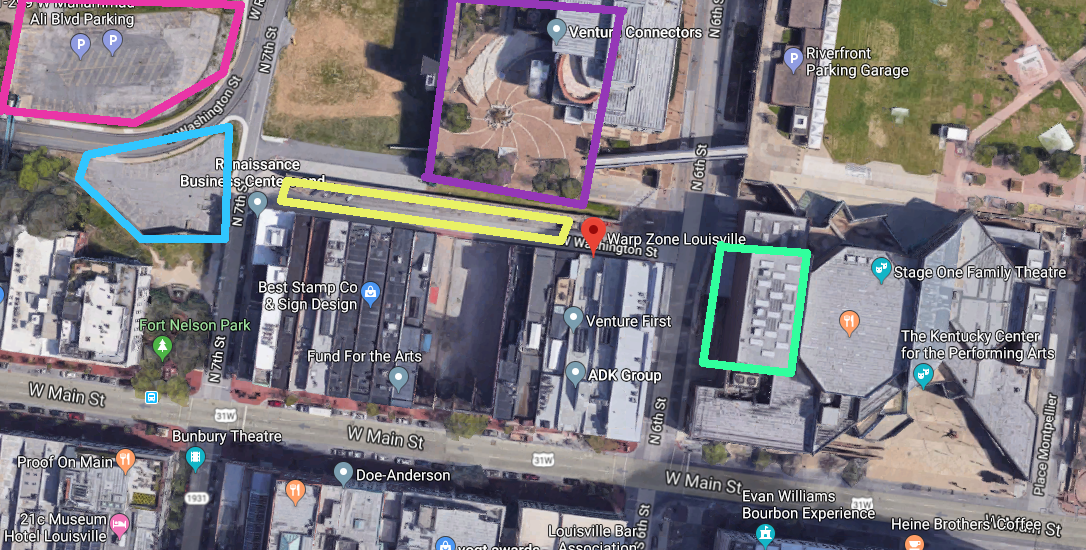
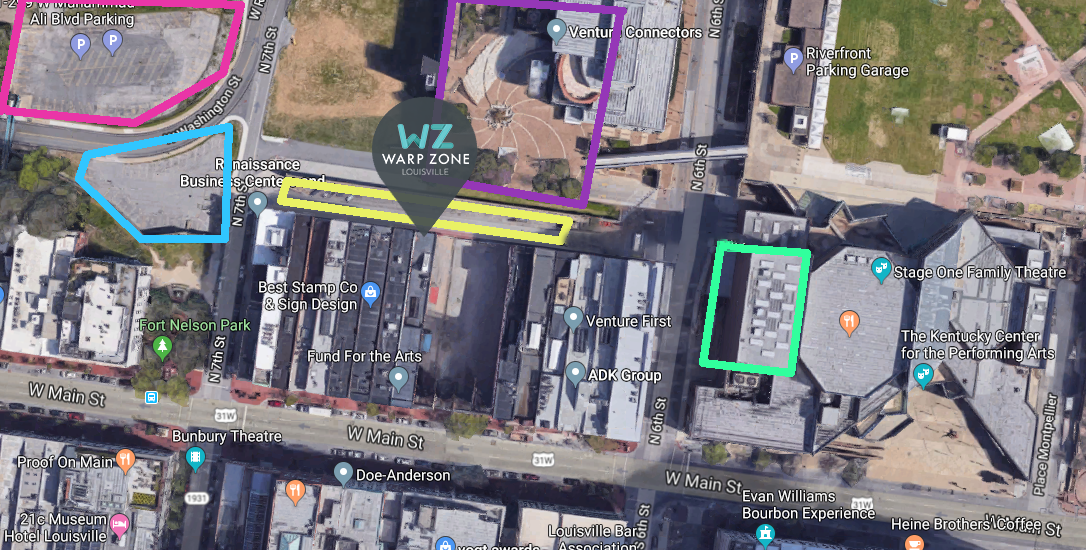
updates for new warp zone location

Changed region(s): [[0.3343, 0.1545, 0.4558, 0.4327], [0.5166, 0.4018, 0.6989, 0.4945]]

diff --git a/html/index.html b/html/index.html
@@ -36,8 +36,11 @@
       </button>
       <div class="navbar-collapse collapse" id="navbarCollapse">
         <ul class="navbar-nav ml-auto">
-          <li class="nav-item active ">
+          <li class="nav-item">
             <a class="nav-link" href="#">Home</a>
+          </li>
+          <li class="nav-item">
+            <a class="nav-link" href="#newlocation">New Location</a>
           </li>
           <li class="nav-item">
             <a class="nav-link" href="#benefits">Benefits</a>
@@ -63,9 +66,22 @@
         <li data-target="#myCarousel" data-slide-to="1"></li>
         <li data-target="#myCarousel" data-slide-to="2"></li>
         <li data-target="#myCarousel" data-slide-to="3"></li>
+        <li data-target="#myCarousel" data-slide-to="4"></li>
       </ol>
       <div class="carousel-inner">
-        <div class="carousel-item active" style="background: url(images/andrew-welch-cbi8e7GNwxc-unsplash.jpg);background-size: cover;  background-position: center; ">
+
+        <div class="carousel-item active" style="background: url(images/new-space-front.jpg);background-size: cover;  background-position: center; ">
+          <div class="darkener"></div>
+          <div class="container">
+            <div class="carousel-caption">
+              <h1>We've Moved!</h1>
+              <h3>We are now in the Fund for the Arts building, still on the same block in downtown Louisville, KY!</h3>
+              <a href="#newlocation" class="btn btn-primary btn-lg"><i class="ion-md-person"></i>  More info</a>
+            </div>
+          </div>
+        </div>
+
+        <div class="carousel-item" style="background: url(images/andrew-welch-cbi8e7GNwxc-unsplash.jpg);background-size: cover;  background-position: center; ">
           <div class="darkener"></div>
           <div class="container">
             <div class="carousel-caption">
@@ -76,7 +92,7 @@
           </div>
         </div>
 
-        <div class="carousel-item " style="background: url(images/warpzone-co-working-area.jpg);background-size: cover;  background-position: center; ">
+        <div class="carousel-item " style="background: url(images/new-space-room2.jpg);background-size: cover;  background-position: center; ">
           <div class="darkener"></div>
           <div class="container">
             <div class="carousel-caption">
@@ -87,7 +103,7 @@
           </div>
         </div>
 
-        <div class="carousel-item" style="background: url(images/warpzone-westwashington.jpg);background-size: cover;  background-position: center; ">
+        <div class="carousel-item" style="background: url(images/new-space-building.jpg);background-size: cover;  background-position: center; ">
           <div class="darkener"></div>
           <div class="container">
             <div class="carousel-caption">
@@ -98,7 +114,7 @@
           </div>
         </div>
 
-        <div class="carousel-item" style="background: url(images/warpzone-keyfob.jpg);background-size: cover;  background-position: center; ">
+        <div class="carousel-item" style="background: url(images/fund-for-the-arts.jpg);background-size: cover;  background-position: center; ">
           <div class="darkener"></div>
           <div class="container">
             <div class="carousel-caption">
@@ -131,7 +147,7 @@
             <div class="card-body">
               <h1 class="card-title pricing-card-title">$100 <small class="text-muted">/ mo</small></h1>
               <ul class="mt-3 mb-4 text-align-left">
-                <li>Electronic key fee $15 *</li>
+                <!-- <li>Electronic key fee $15 *</li> -->
                 <li>24 hour access</li>
                 <li>Receive mail at our main street address</li>
                 <li>Invite guests †</li>
@@ -151,7 +167,7 @@
             <div class="card-body">
               <h1 class="card-title pricing-card-title">$65 <small class="text-muted">/ mo*</small></h1>
               <ul class="mt-3 mb-4 text-align-left">
-                <li>Electronic key fee $15 *</li>
+                <!-- <li>Electronic key fee $15 *</li> -->
                 <li>Daytime access weekdays 6am - 6pm</li>
                 <li>Receive mail at our main street address</li>
                 <li>Invite guests † </li>
@@ -173,8 +189,8 @@
               <h1 class="card-title pricing-card-title">$50</h1>
               <p> Host your next event or meetup at Warp Zone Louisville</p>
               <ul class="mt-3 mb-4 text-align-left">
-                <li>13' projector screen</li>
-                <li>Classroom capacity of 25</li>
+                <li>Projector</li>
+                <li>Presentation room capacity of 20</li>
               </ul>
               <div class="btn-container">
                 <a class="btn btn-lg btn-block btn-primary" href="#membership">Schedule your event</a>
@@ -195,6 +211,20 @@
 
 
 
+    <div id="newlocation" class="row page-top">
+      <div class="col-sm-5">
+      <img src="images/new-space-front.jpg" alt="Warp Zone Louisville co-working space Louisville KY - Come take a tour!">
+      </div>
+      <div class="col-sm-7">
+      <h1>A Whole New Zone!</h1>
+
+      <p>If you are familiar with the original Warp Zone Louisville location the new location is right down the alley, literally 5 doors down! We are now in the Fund For the Arts building in downtown Louisville, in historic Museum Row.</p>
+       <p>We here at Louisville makes Games(the 501(c)(3) non-profit which runs Warp Zone Louisville) are very excited to start year 5 of providing Kentucky’s only game development-focused collaborative workspace and community space, self-funded entirely by the community and co-working members!</p>
+      <br/>
+      <a href="#membership" class="btn btn-primary"><i class="ion-md-person"></i> Schedule a tour</a>
+      </div>
+
+    </div>
 
 
 <div id="membership" class="row page-top">
@@ -203,10 +233,11 @@
 
   <p>Our community of developers and other creative folks are special to us. We are more than a co-working space, but an inclusive community of creative collaborators, so we are selective with our memberships for the sake and comfort of our existing community. We think you’ll like that about us.</p>
   <br/>
-</div>
-<div class="col-sm-5">
-<img src="images/warpzone-coworking.jpg" alt="Warp Zone Louisville co-working space Louisville KY - Come take a tour!">
-</div>
+  <a href="#membership" class="btn btn-primary"><i class="ion-md-person"></i> Become a member</a>
+  </div>
+  <div class="col-sm-5">
+  <img src="images/new-space-room1-2.jpg" alt="Warp Zone Louisville co-working space Louisville KY - Come take a tour!">
+  </div>
 </div>
 
   <h3>Get your membership started:</h3>
@@ -254,7 +285,7 @@
             <a href="#membership" class="btn btn-primary"><i class="ion-md-person"></i> Become a member</a>
           </div>
           <div class="col-md-5">
-            <img src="images/warpzone-co-working-area.jpg" alt="Warp Zone Louisville co-working space Louisville KY - 24/7 access.">
+            <img src="images/new-space-room2.jpg" alt="Warp Zone Louisville co-working space Louisville KY - 24/7 access.">
           </div>
         </div>
 
@@ -281,7 +312,7 @@
           <a href="https://docs.google.com/forms/d/e/1FAIpQLSfRAQwMmfjd3hQTUqJaGIY4PY-s6-40bsBwYtSAZ-Yjq_DKNw/viewform" target="_blank" class="btn btn-primary"><i class="ion-md-calendar"></i> Schedule a tour</a>
       </div>
       <div class="col-md-5 order-md-1">
-        <img src="images/warpzone-lobby.png" alt="Warp Zone Louisville co-working space Louisville KY - Check out our amenities.">
+        <img src="images/new-space-room1.jpg" alt="Warp Zone Louisville co-working space Louisville KY - Check out our amenities.">
       </div>
     </div>
 
@@ -293,20 +324,21 @@
 
       <div class="col-md-12 col-lg-6">
       <h4>Location</h4>
-      <iframe style="border: 0;" class="google-map" src="https://www.google.com/maps/embed?pb=!1m18!1m12!1m3!1d3132.953525885918!2d-85.76230398393217!3d38.257383892017444!2m3!1f0!2f0!3f0!3m2!1i1024!2i768!4f13.1!3m3!1m2!1s0x886972a3bfcc2ae3%3A0x193c4bdd6b552ea9!2s607+W+Main+St+%23002%2C+Louisville%2C+KY+40202!5e0!3m2!1sen!2sus!4v1453141025017" width="400" height="300" frameborder="0" allowfullscreen="allowfullscreen"></iframe>
+      <iframe style="border: 0;" class="google-map" src="https://www.google.com/maps/embed?pb=!1m18!1m12!1m3!1d3132.953525885918!2d-85.76230398393217!3d38.257383892017444!2m3!1f0!2f0!3f0!3m2!1i1024!2i768!4f13.1!3m3!1m2!1s0x886972a3bfcc2ae3%3A0x193c4bdd6b552ea9!2s627+W+Main+St+%23002%2C+Louisville%2C+KY+40202!5e0!3m2!1sen!2sus!4v1453141025017" width="400" height="300" frameborder="0" allowfullscreen="allowfullscreen"></iframe>
       <br/>
       <div class="row">
         <div class="col-md-6 col-lg-12">
-          <strong><i class="ion-md-pin"></i> Warp Zone Louisville Address</strong> <br/>
-          612 West Washington St. <br/>
+          <strong><i class="ion-md-pin"></i> *NEW* Warp Zone Louisville Address</strong> <br/>
+          627 West Washington St. <br/>
           Louisville, KY 40202
         </br>
         </br>
         </div>
 
         <div class="col-md-6 col-lg-12">
-          <strong><i class="ion-md-mail"></i> Mailing address</strong> <br/>
-          607 W Main St. Suite 002 <br/>
+
+          <strong><i class="ion-md-mail"></i> *NEW* Mailing address</strong> <br/>
+          623 W Main St.  Rear Suite <br/>
           Louisville, KY 40202
           </div>
         </div>
@@ -333,7 +365,7 @@
         <div class="page-top row">
 
     <div class="col-sm-7">
-    <img src="images/warp-zone-kids-class.jpg" alt="Warp Zone Louisville co-working space Louisville KY classroom">
+    <img src="images/new-space-room2-2.jpg" alt="Warp Zone Louisville co-working space Louisville KY classroom">
     </div>
   <div class="col-sm-5">
     <img src="images/logo.png" alt="Warp Zone Louisville co-working space Louisville KY - logo">
